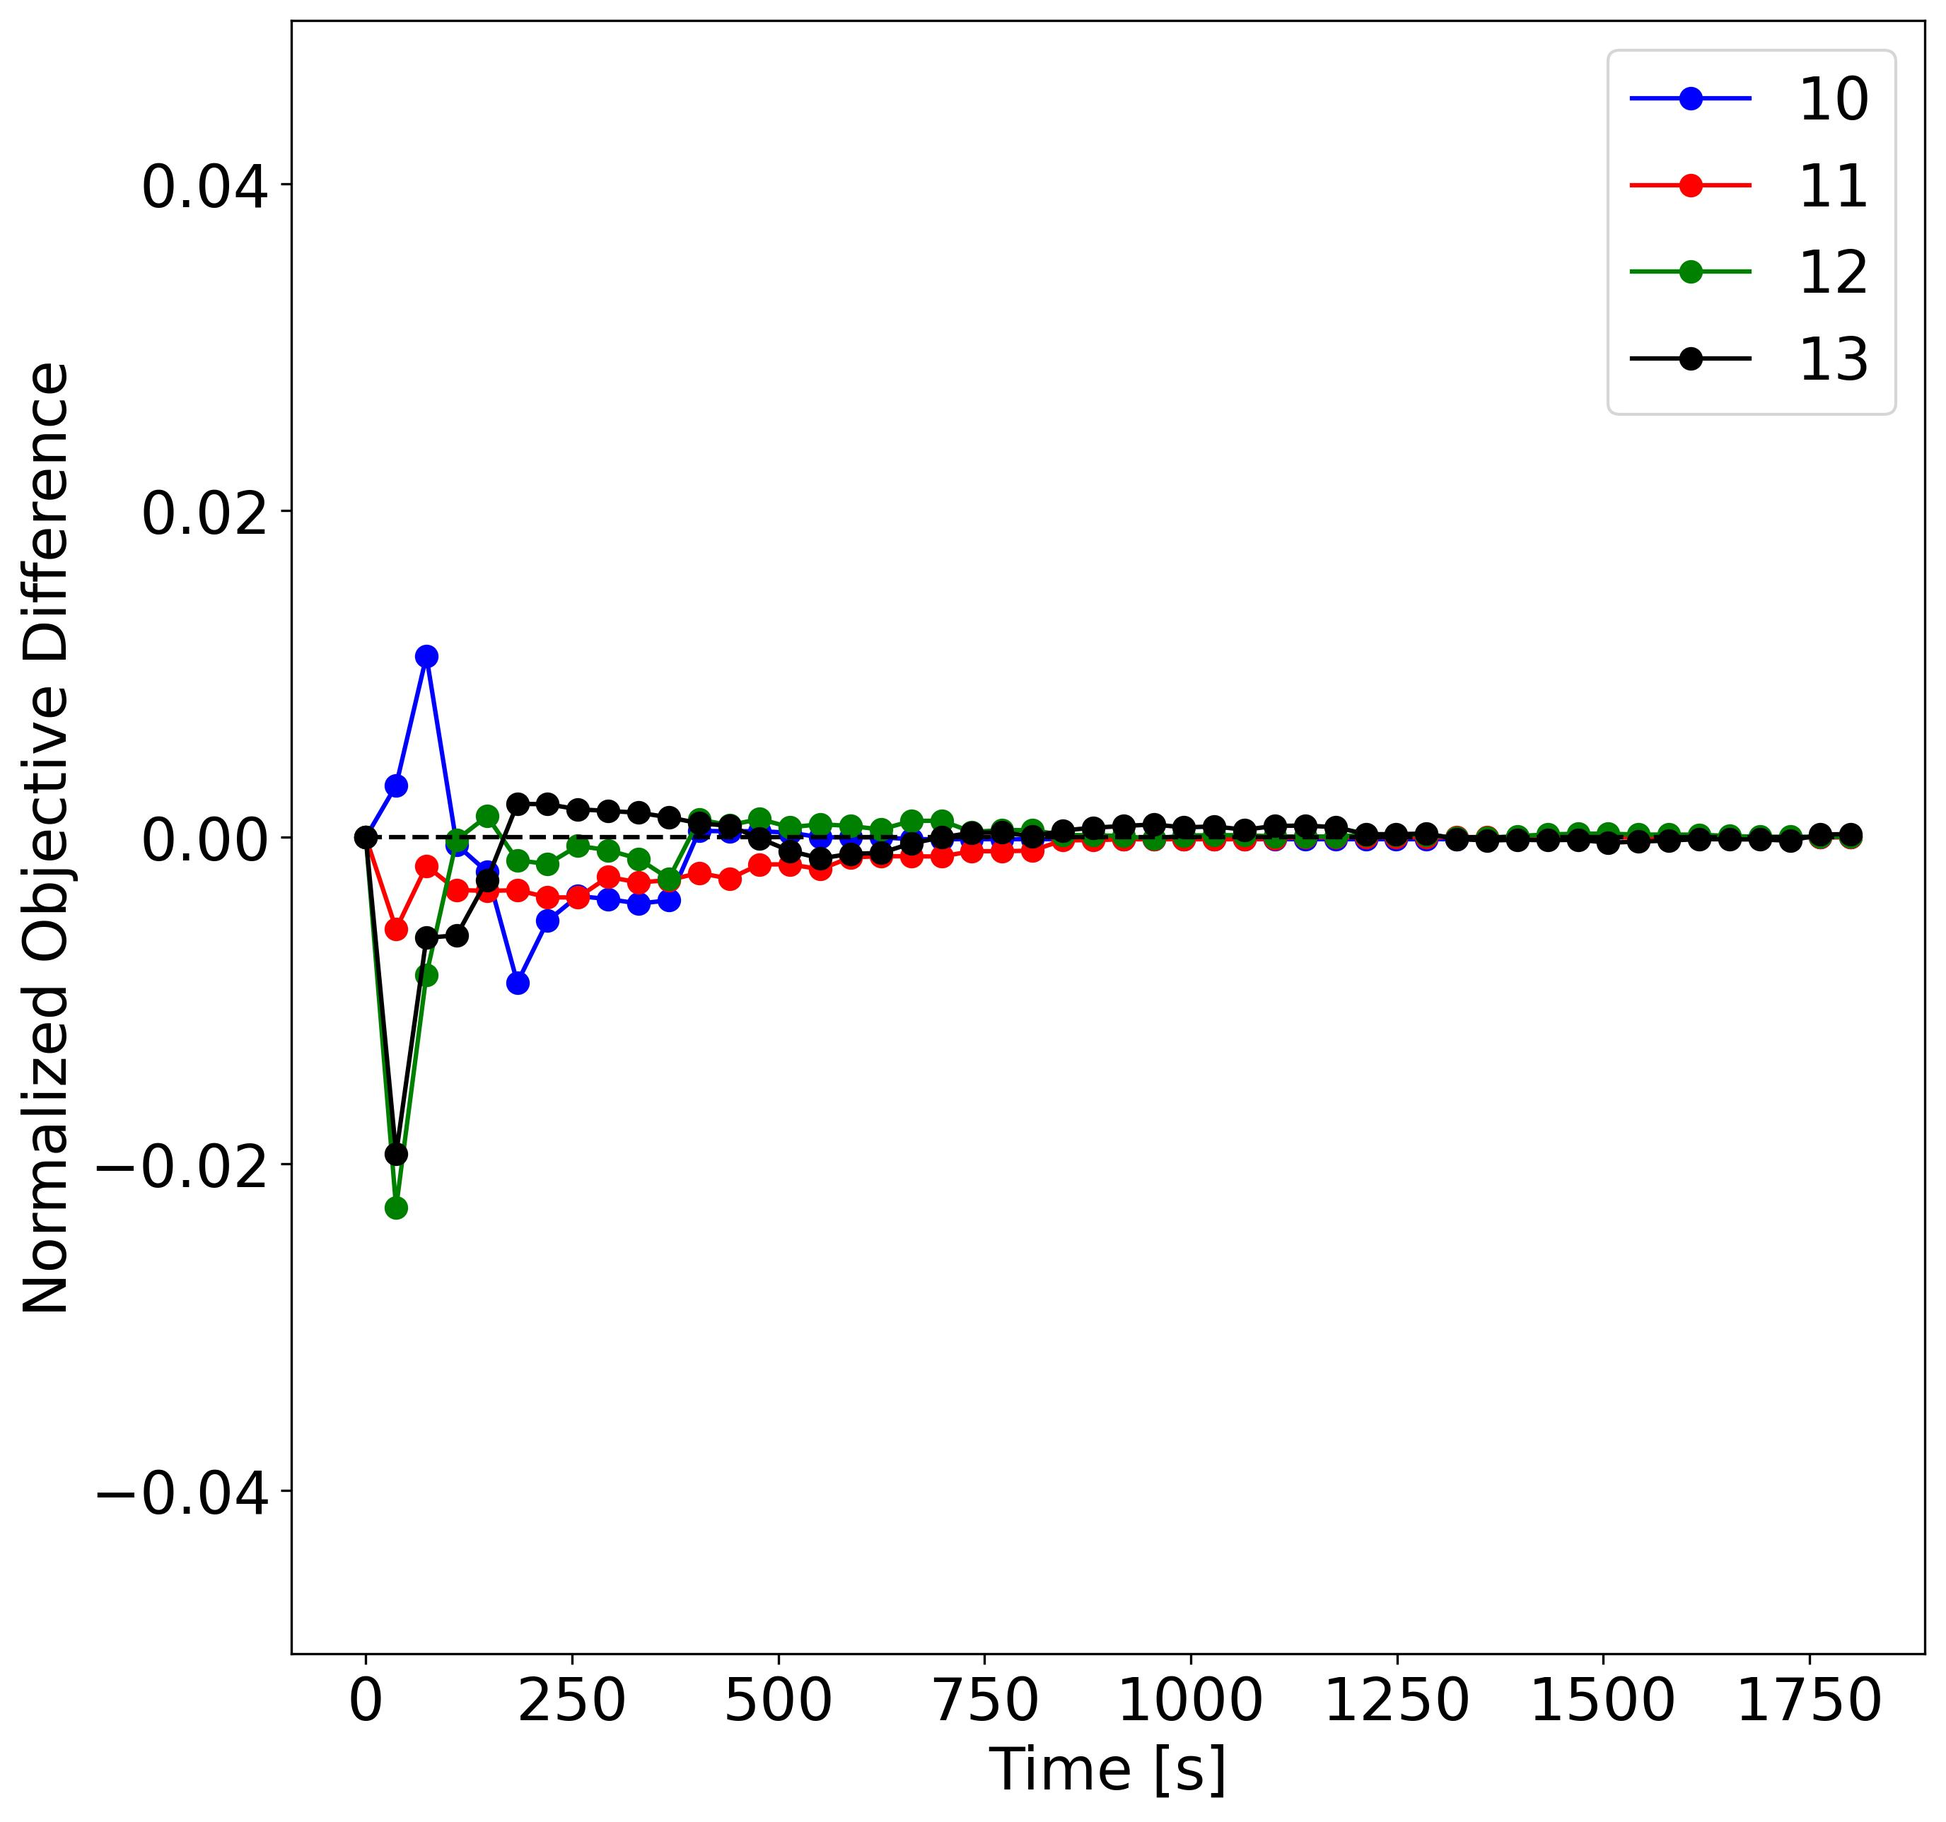
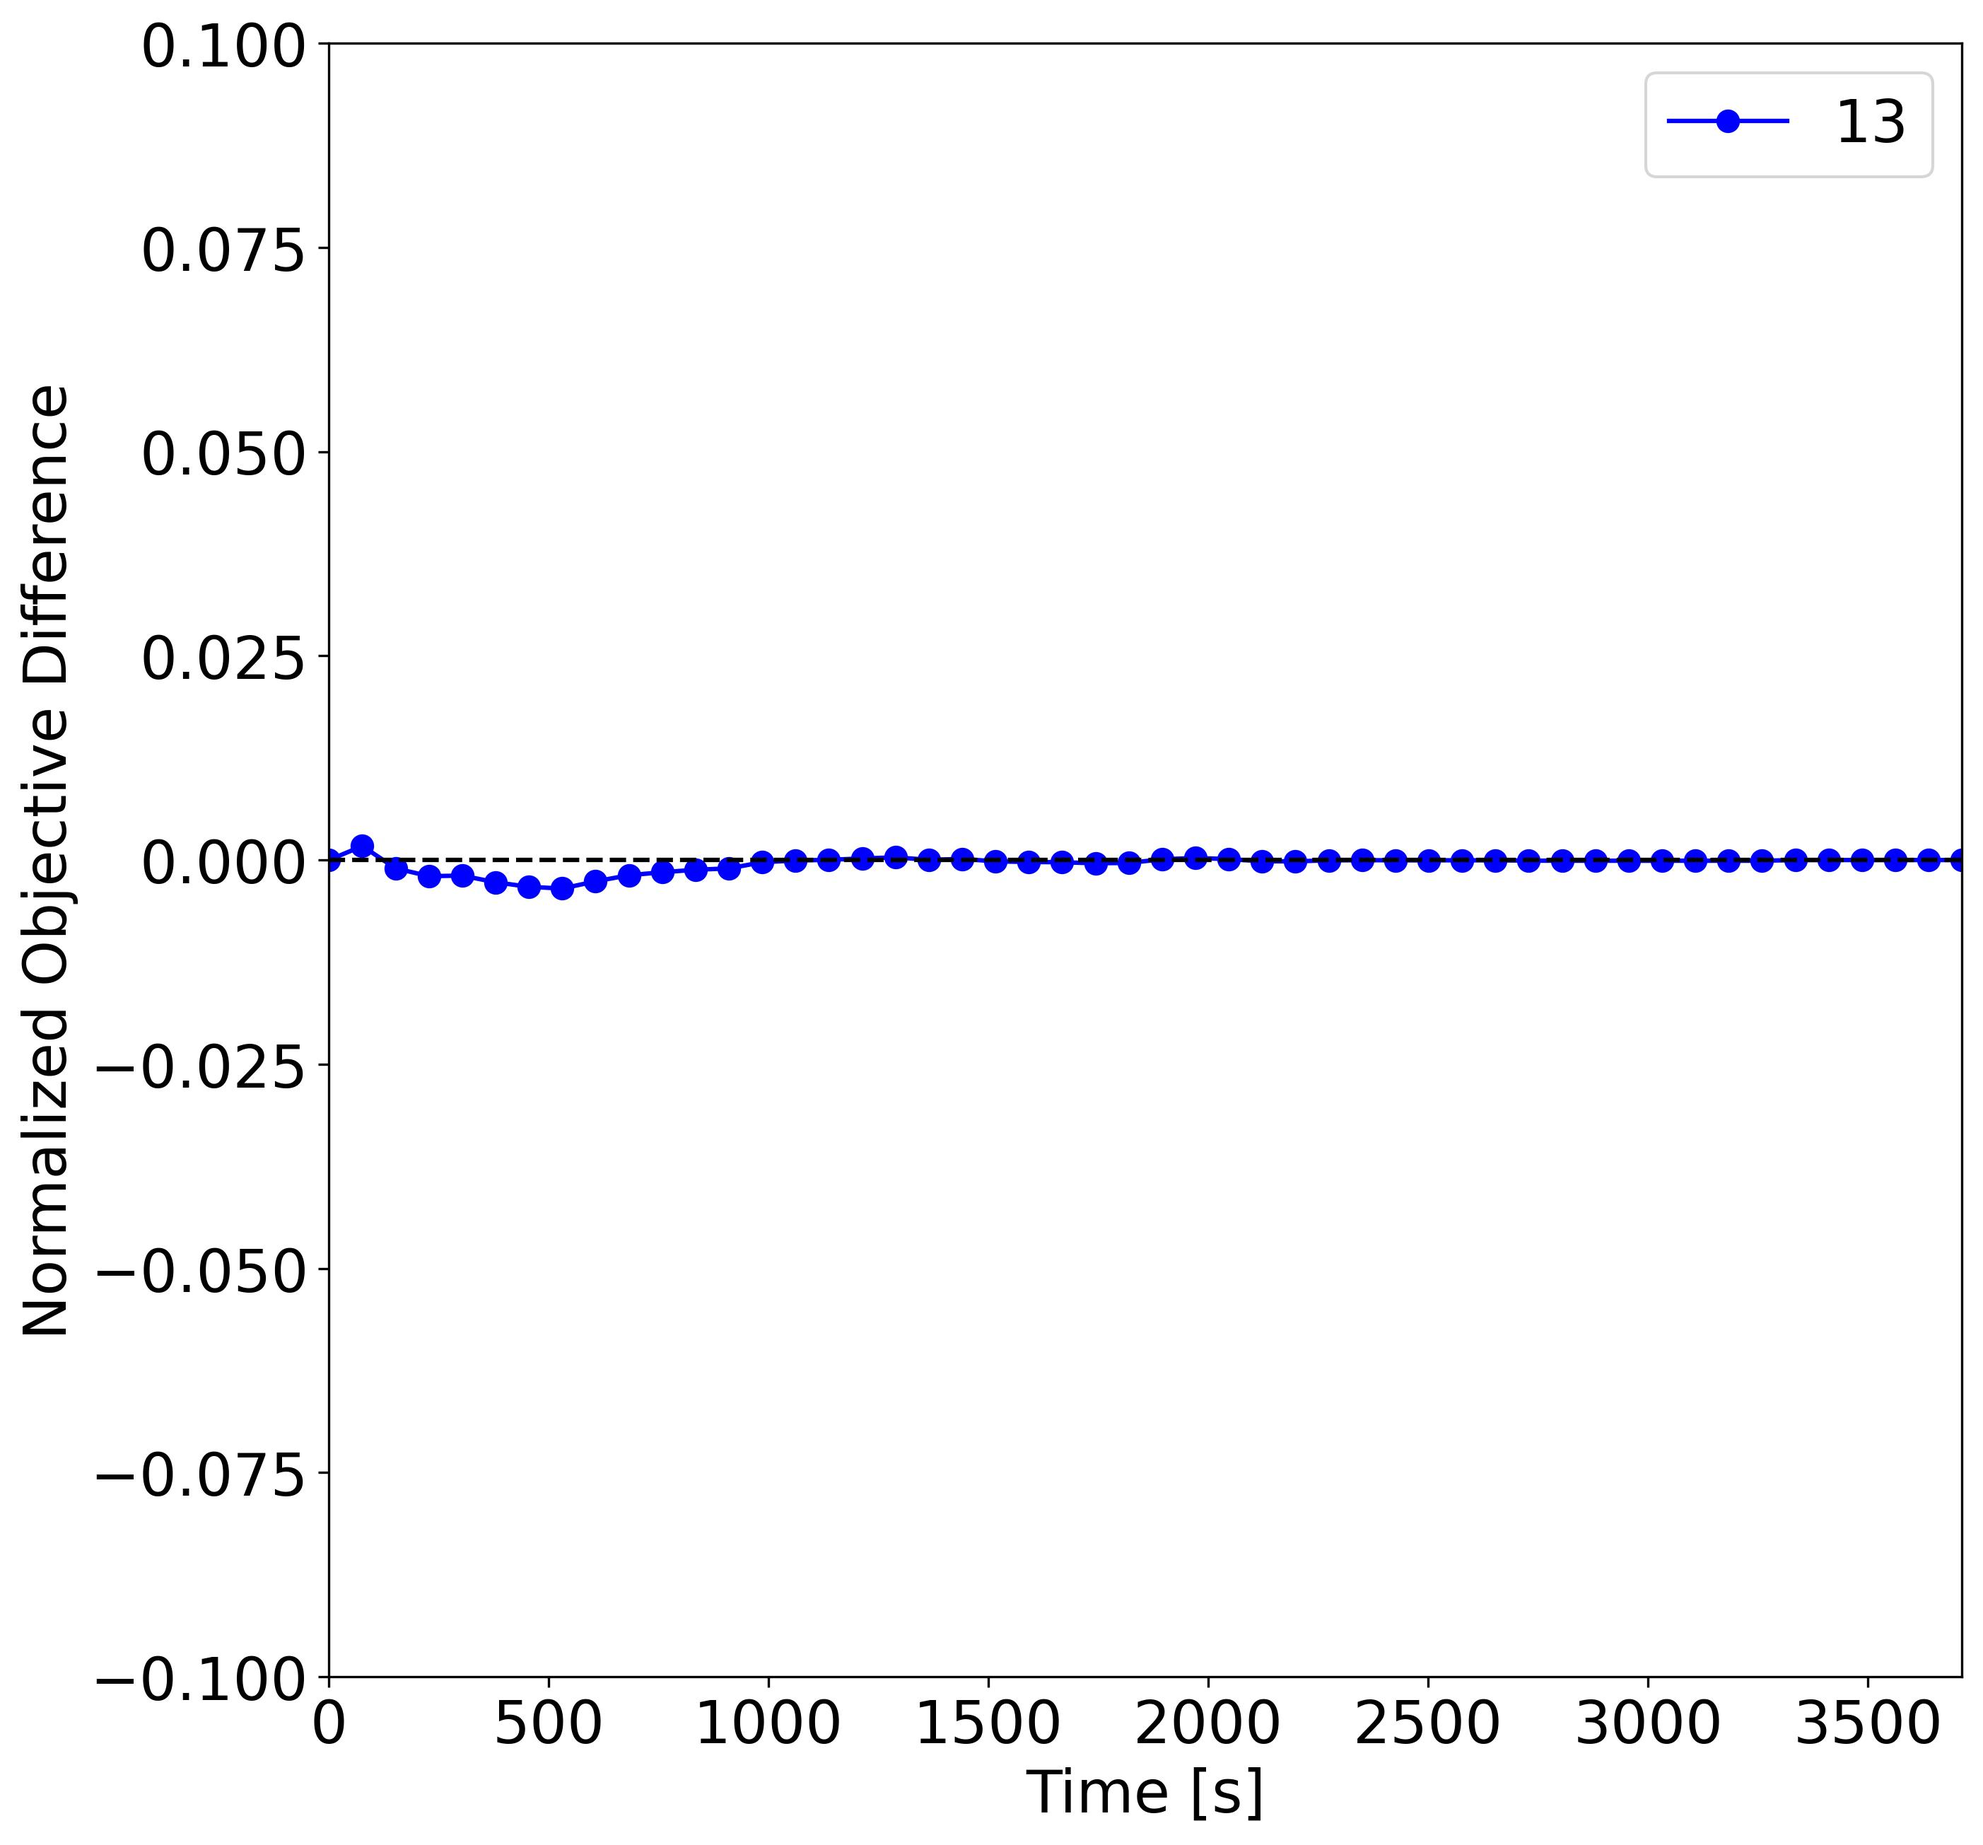
Refactors history plots

diff --git a/plots/power_grid_opt.py b/plots/power_grid_opt.py
@@ -55,60 +55,62 @@ def plot_instance_objective_histories():
     save_figure()
 
 
-def plot_polar_vs_rectangular():
-    """Plots normalized objective histories for polar and rectangular CasADi results on the 5-generator dataset."""
-    plot_histories([5], np.linspace(0, 1800, 50).tolist(), list(range(120)), ["casadi", "casadi_rectangular"])
-
-
-def plot_average_normalized_objective_histories():
+def plot_average_histories():
     """Plots average normalized objective histories for the default solver comparison."""
-    num_generators = [10]
-    selecting_solver = "hybrid/nl_1"
-    full_df = pd.read_csv(Path(__file__).resolve().parent.parent / f"data/{num_generators[0]}/{selecting_solver}/.solutions.csv")
-    fastest_df = full_df.loc[pd.to_numeric(full_df["classical_opt_time"], errors="coerce").nsmallest(100).index]
-    time_grid = np.linspace(0, max(fastest_df["classical_opt_time"]), 50)
-    instance_ids = fastest_df["instance"].astype(int).tolist()
-    plot_histories(num_generators, time_grid, instance_ids, ["scip", "smac", "uniform", "hybrid/nl_1"])
-
-
-def plot_histories(num_generators: Sequence[int], grid_times: Sequence[float], instance_ids: Sequence[int], solver_ids: Sequence[str]):
-    """Plots average normalized objective histories for configured solvers.
-    :param num_generators: Generator counts whose datasets should be plotted together.
-    :param grid_times: Uniform time grid used to align objective histories.
-    :param instance_ids: Instance ids included in the average normalized objective curves.
-    :param solver_ids: Solver ids whose CSV files should be loaded from subfolders inside each dataset folder.
-    """
+    num_generators = [10, 11, 12, 13]
+    solver_ids = ["hybrid/nl_1", "uniform"]
+    ref_solver = "hybrid/nl_1"
     solver_names = {"scip": "SCIP", "smac": "SMAC", "uniform": "Uniform", "hybrid/nl_1": "Hybrid", "hybrid/nl_2": "Hybrid L2"}
+
+    history_data = get_history_data_2(num_generators, solver_ids, ref_solver)
     lines = []
     labeled_solvers = set()
     for num_gens_ind, num_gens in enumerate(num_generators):
-        curves = get_history_curves(num_gens, grid_times, instance_ids, solver_ids)
-        for solver_index, solver_id in enumerate(solver_ids):
+        for solver_ind, solver_id in enumerate(solver_ids):
+            xs, ys = history_data[num_gens][solver_id]
             label = solver_names.get(solver_id, solver_id) if solver_id not in labeled_solvers else "_nolabel_"
-            lines.append(Line(grid_times, curves[solver_id], color=solver_index, marker=num_gens_ind, label=label))
+            lines.append(Line(xs, ys, color=solver_ind, marker=num_gens_ind, label=label))
             labeled_solvers.add(solver_id)
     plot_general(lines, axis_labels=("Time [s]", "Normalized Objective"), boundaries=(None, None, 0.9, 1.01))
     save_figure()
 
-    
+
 def plot_history_diff():
-    """Plots differences between the first configured solver curve and all remaining configured solver curves."""
-    num_generators = [10, 11, 12, 13]
-    grid_times = np.linspace(0, 1800, 50).tolist()
-    instance_ids = list(range(120))
-    solver_ids = ["hybrid/nl_2", "uniform"]
+    """Plots differences between the two configured solver curves."""
+    num_generators = [13]
+    solver_ids = ["hybrid/nl_1", "uniform"]
+    ref_solver = "hybrid/nl_1"
+
+    history_data = get_history_data_2(num_generators, solver_ids, ref_solver)
     lines = []
     for num_gens_ind, num_gens in enumerate(num_generators):
-        curves = get_history_curves(num_gens, grid_times, instance_ids, solver_ids)
-        for solver_id in solver_ids[1:]:
-            label = str(num_gens)
-            lines.append(Line(grid_times, curves[solver_ids[0]] - curves[solver_id], color=num_gens_ind, marker=0, label=label))
-    lines.append(Line([grid_times[0], grid_times[-1]], [0, 0], color="black", marker="none", style="--"))
-    plot_general(lines, axis_labels=("Time [s]", "Normalized Objective Difference"), boundaries=(None, None, -0.05, 0.05))
+        xs, first_ys = history_data[num_gens][solver_ids[0]]
+        _, second_ys = history_data[num_gens][solver_ids[1]]
+        lines.append(Line(xs, first_ys - second_ys, color=num_gens_ind, marker=0, label=str(num_gens)))
+    lines.append(Line([0, 10000], [0, 0], color="black", marker="none", style="--"))
+    plot_general(lines, axis_labels=("Time [s]", "Normalized Objective Difference"), boundaries=(0, xs[-1], -0.1, 0.1))
     save_figure()
 
 
-def get_history_curves(num_generators: int, grid_times: Sequence[float], instance_ids: Sequence[int], solver_ids: Sequence[str]) -> dict[str, np.ndarray]:
+def get_history_data_2(num_generators: list[int], solver_ids: list[str], ref_solver: str) -> dict[int, dict[str, tuple[np.ndarray, np.ndarray]]]:
+    """Collects average normalized objective histories across datasets.
+    :param num_generators: Generator counts whose datasets should be loaded.
+    :param solver_ids: Solver ids whose CSV files should be loaded from subfolders inside each dataset folder.
+    :param ref_solver: Solver id used to select the fastest instances and time grid in each dataset.
+    :return: History data keyed by generator count and then solver id.
+    """
+    histories = {}
+    for num_gens in num_generators:
+        full_df = pd.read_csv(Path(__file__).resolve().parent.parent / f"data/{num_gens}/{ref_solver}/.solutions.csv")
+        fastest_100_df = full_df.loc[pd.to_numeric(full_df["classical_opt_time"], errors="coerce").nsmallest(100).index]
+        time_grid = np.linspace(0, max(fastest_100_df["classical_opt_time"]), 50)
+        instance_ids = fastest_100_df["instance"].astype(int).tolist()
+        data = get_history_data(num_gens, time_grid, instance_ids, solver_ids)
+        histories[num_gens] = {solver_id: (time_grid, data[solver_id]) for solver_id in solver_ids}
+    return histories
+
+
+def get_history_data(num_generators: int, grid_times: Sequence[float], instance_ids: Sequence[int], solver_ids: Sequence[str]) -> dict[str, np.ndarray]:
     """Computes average normalized objective curves for one dataset.
     :param num_generators: Generator count whose dataset folder should be loaded.
     :param grid_times: Uniform time grid used to align objective histories.
@@ -187,6 +189,6 @@ def _get_average_normalized_curve(grid_times: Sequence[float], instance_ids: Seq
 if __name__ == "__main__":
     # plot_instance_objective_histories()
     # plot_polar_vs_rectangular()
-    # plot_average_normalized_objective_histories()
+    # plot_average_histories()
     plot_history_diff()
     plt.show()
